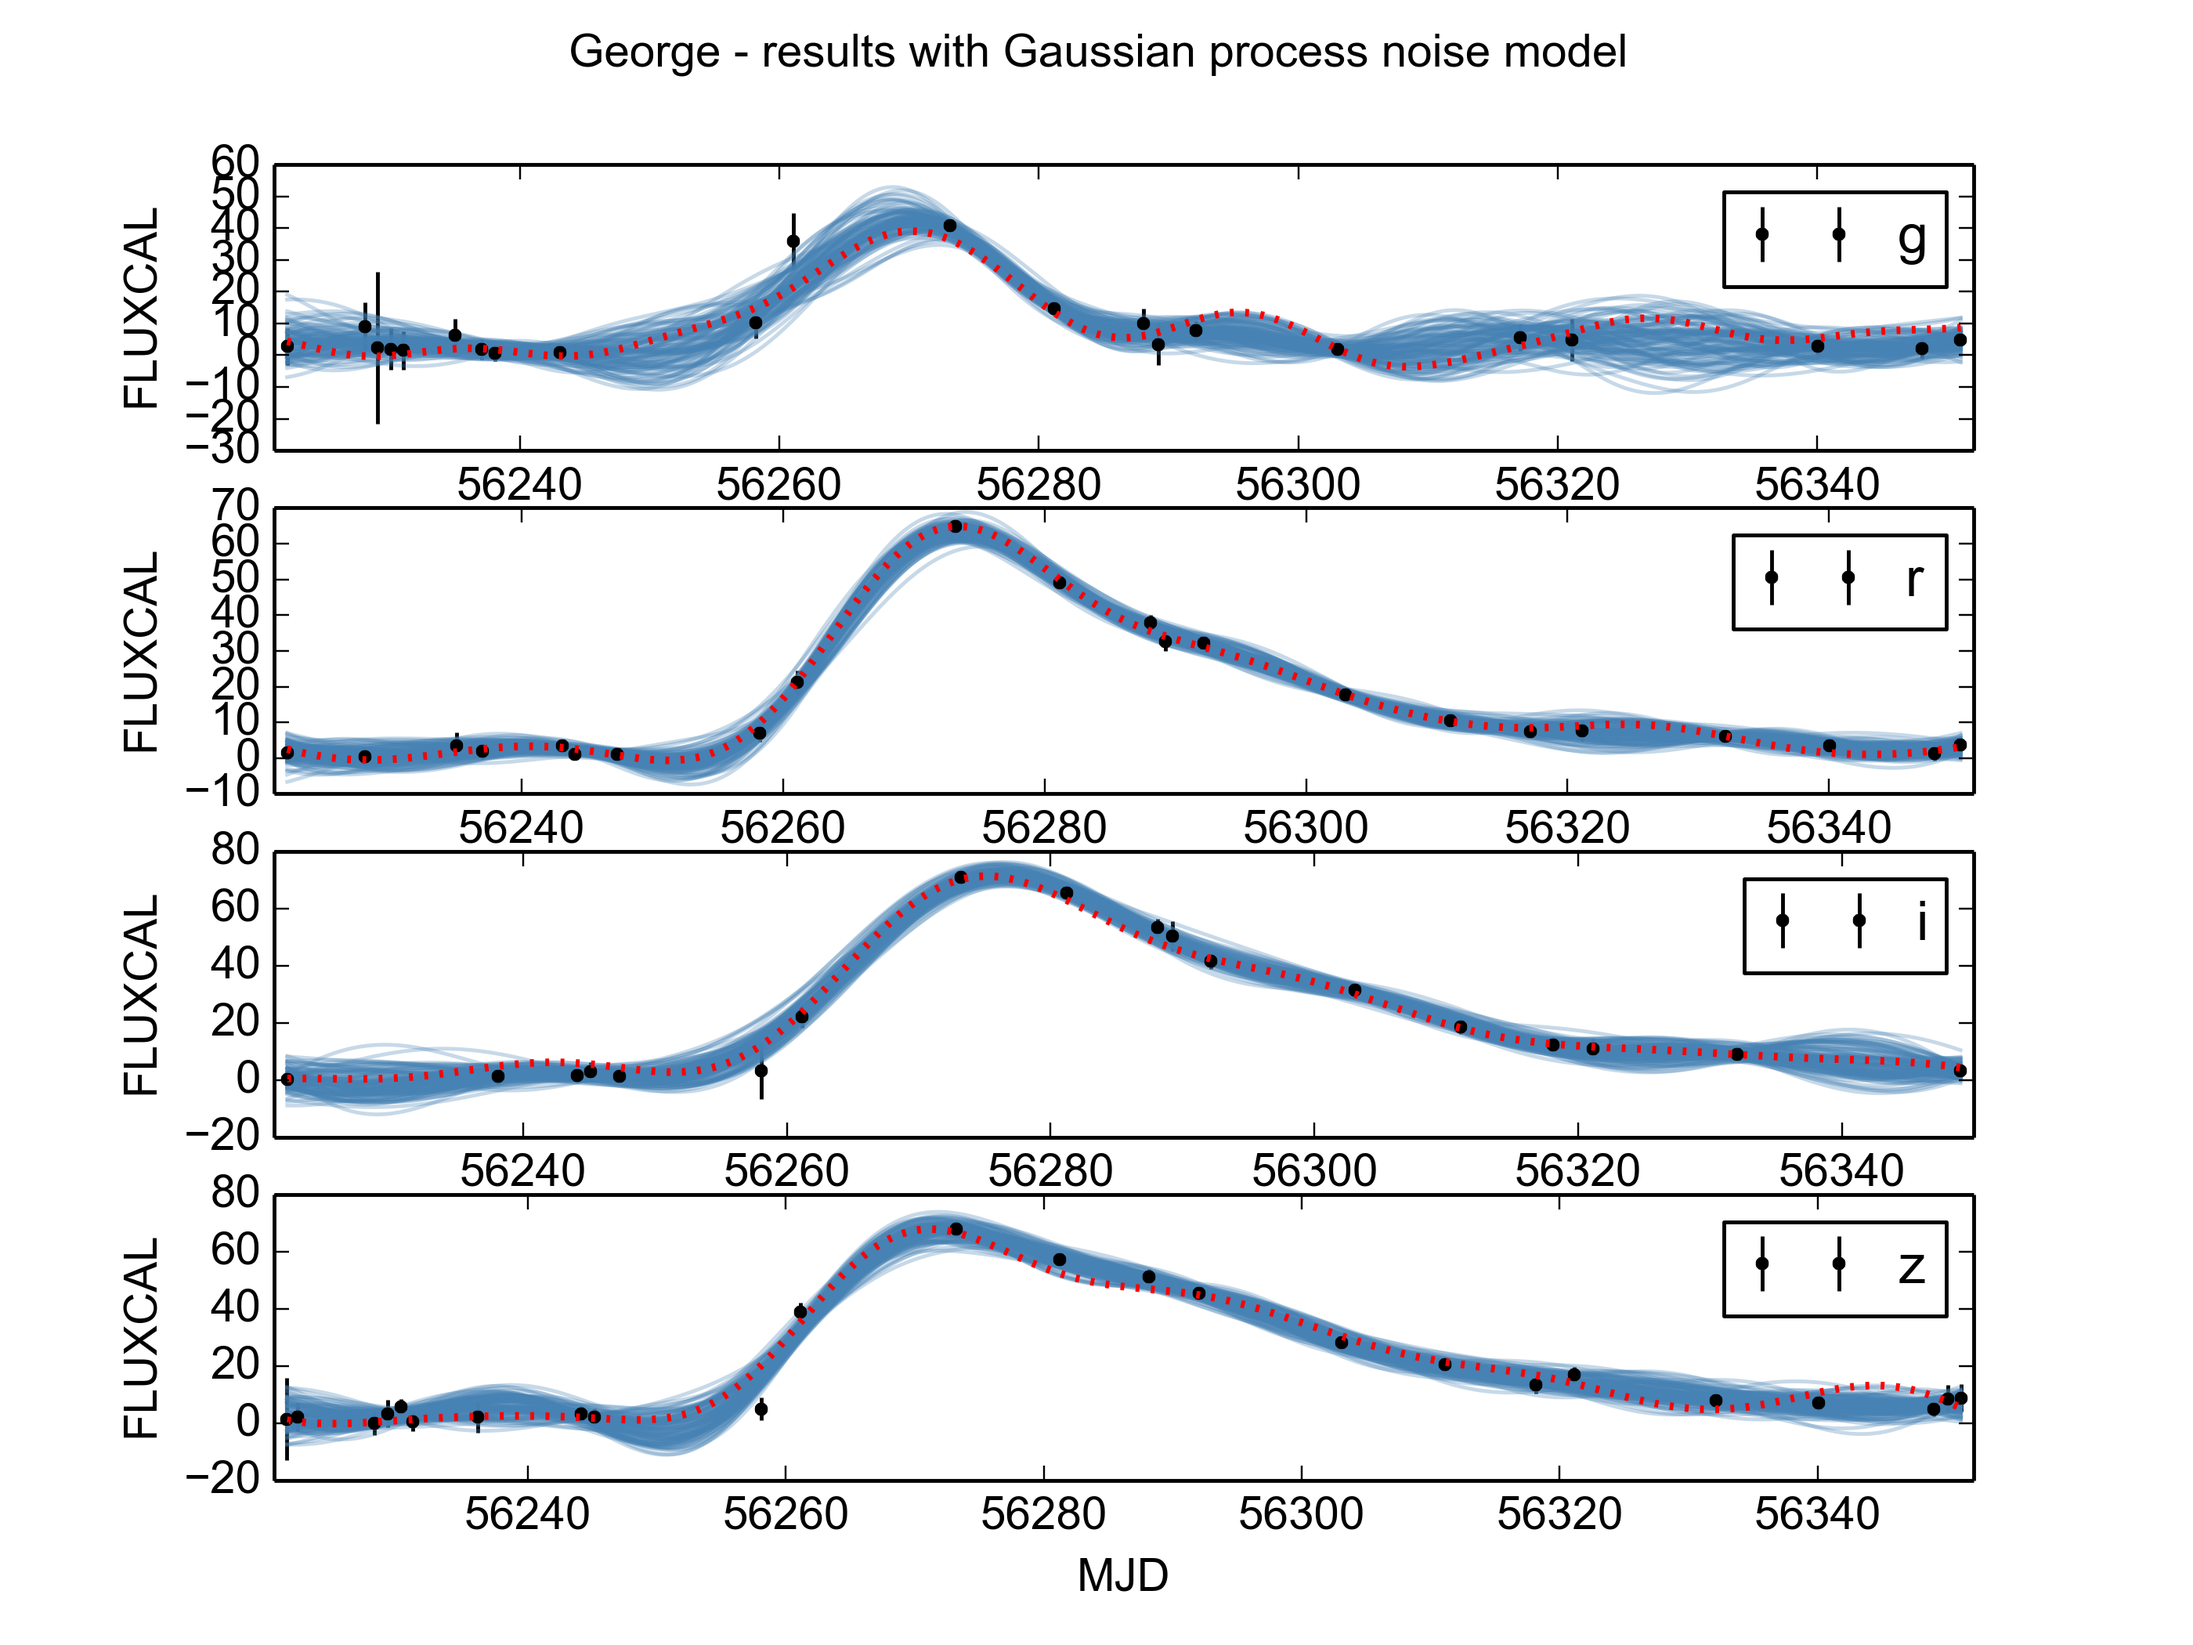
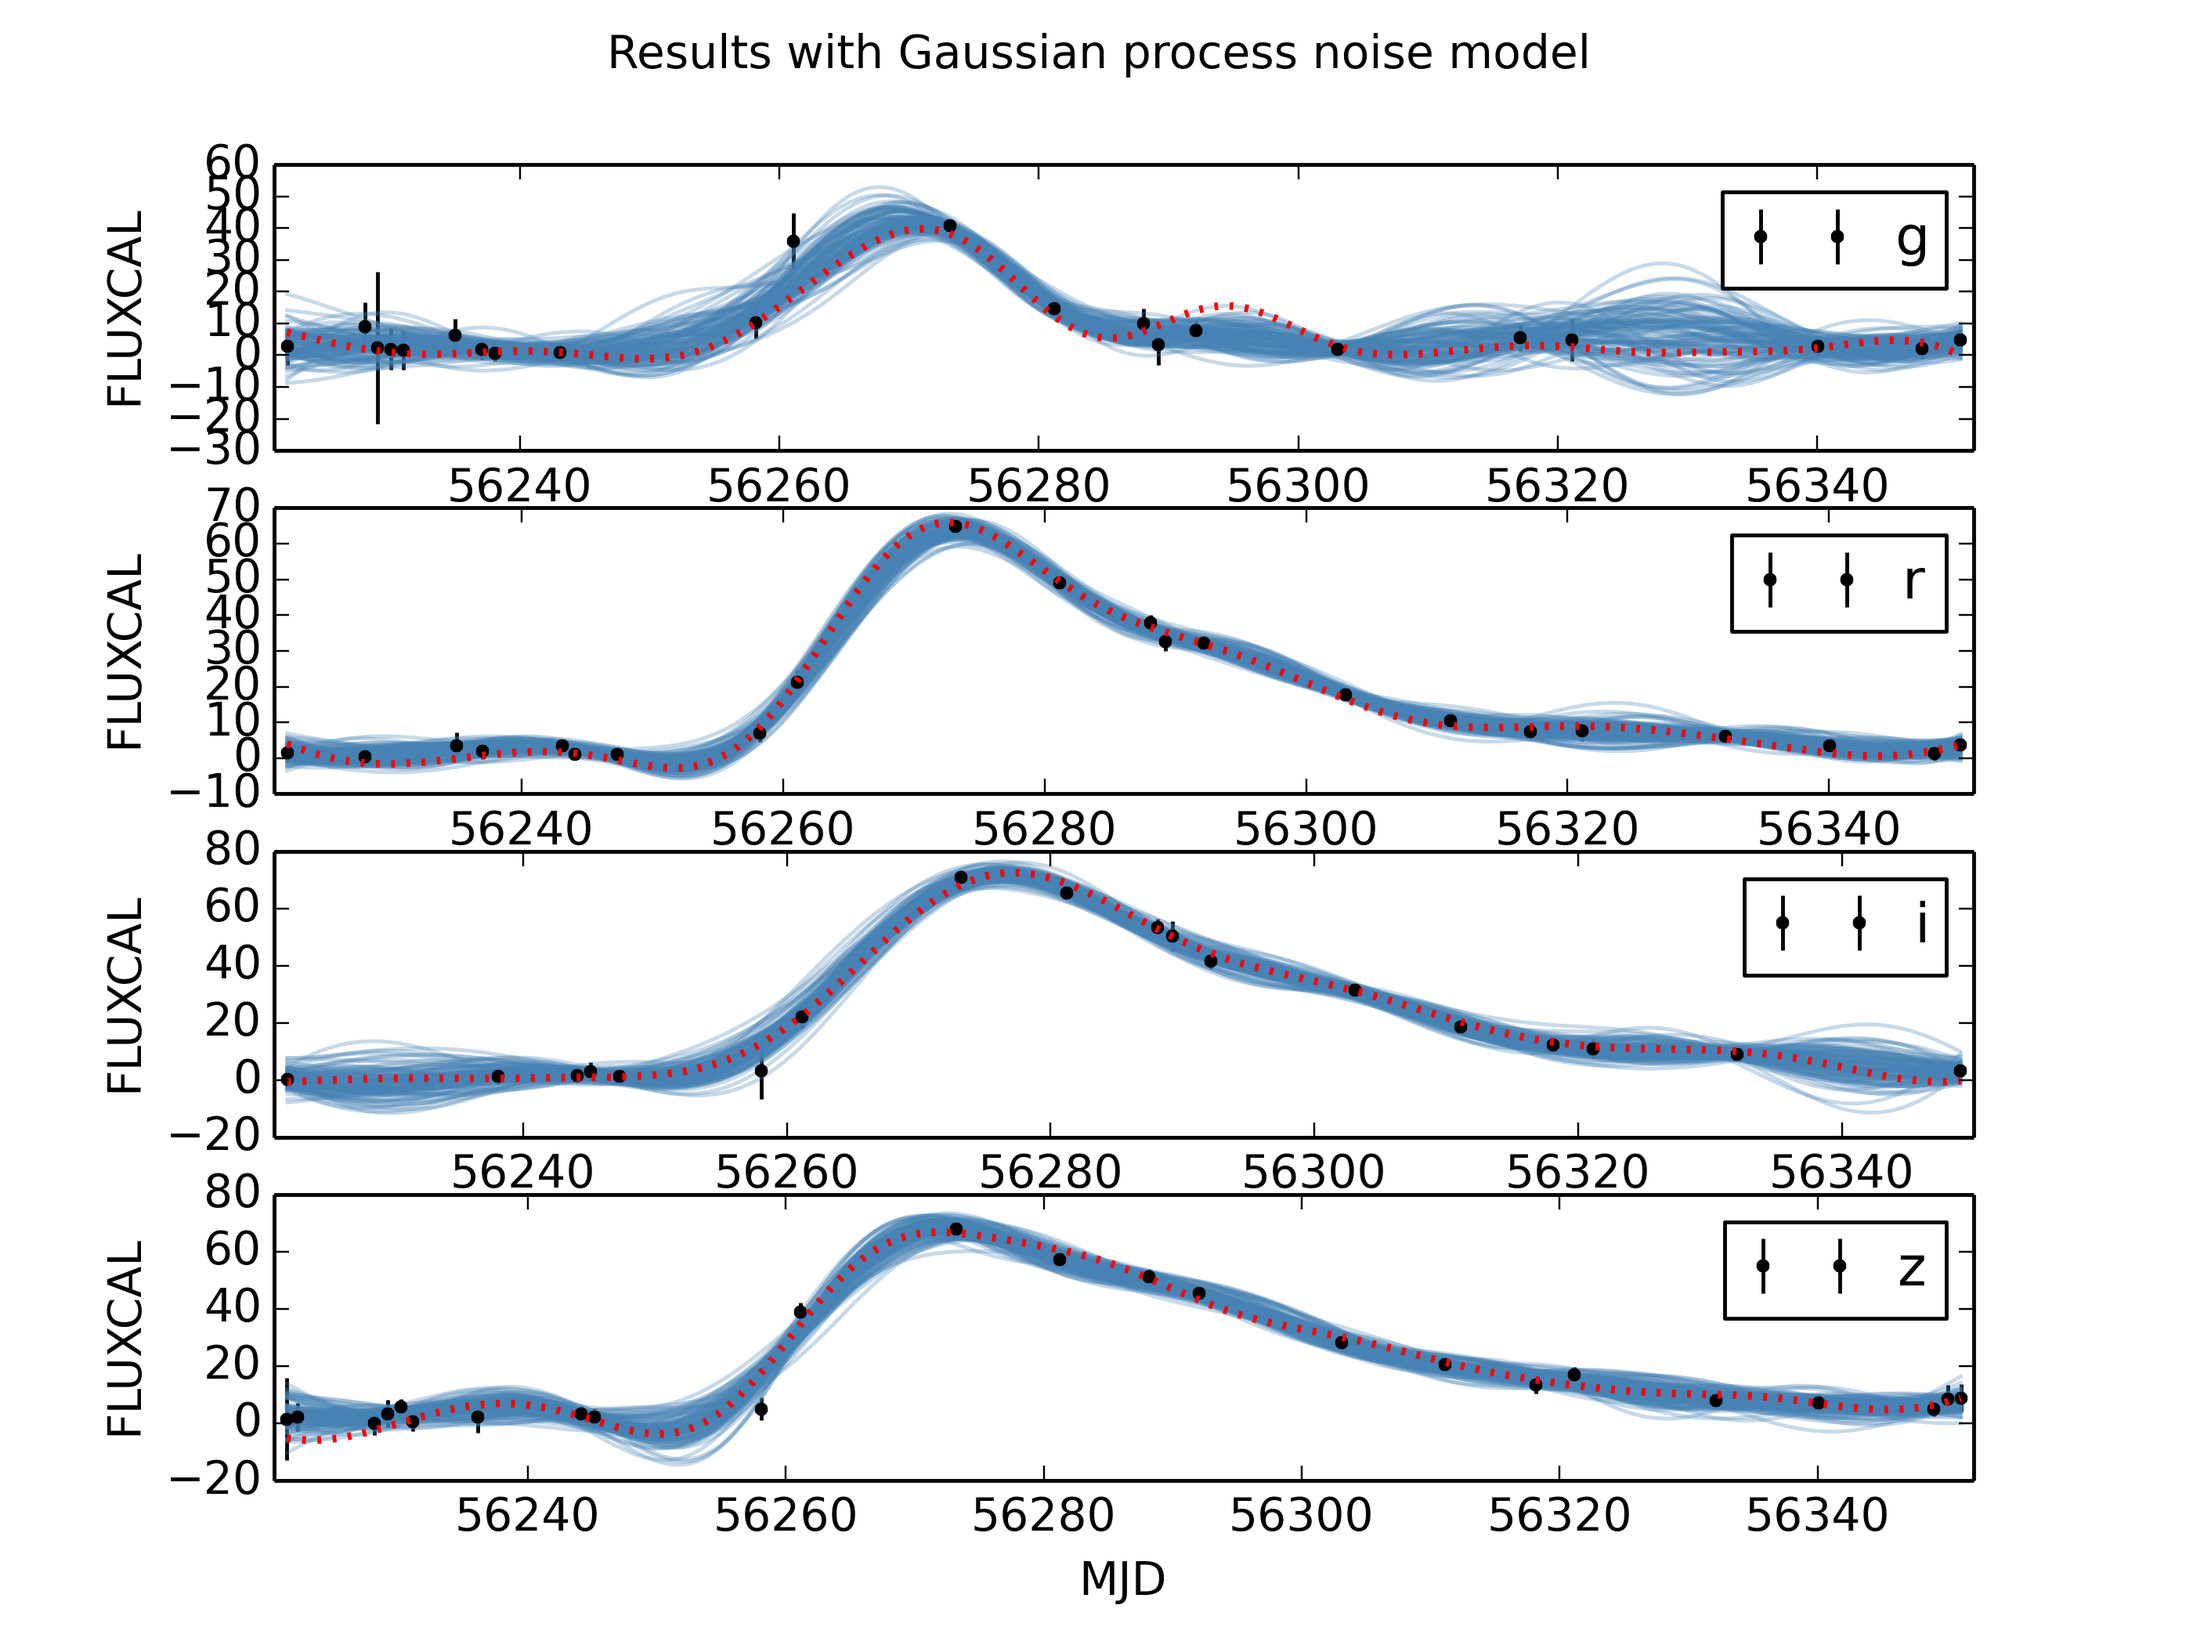
change example plot

diff --git a/snclass/bin/fit_plot_lc_george.py b/snclass/bin/fit_plot_lc_george.py
@@ -75,7 +75,7 @@ def main(args):
         plt.legend()
         plt.xlim(min(lc_data[fil][:,0]) - 1.0, max(lc_data[fil][:,0]) + 1.0)
 
-    plt.suptitle("George - results with Gaussian process noise model")
+    plt.suptitle("Results with Gaussian process noise model")
     plt.savefig("gp-results.png", dpi=350)
     plt.close()
 
